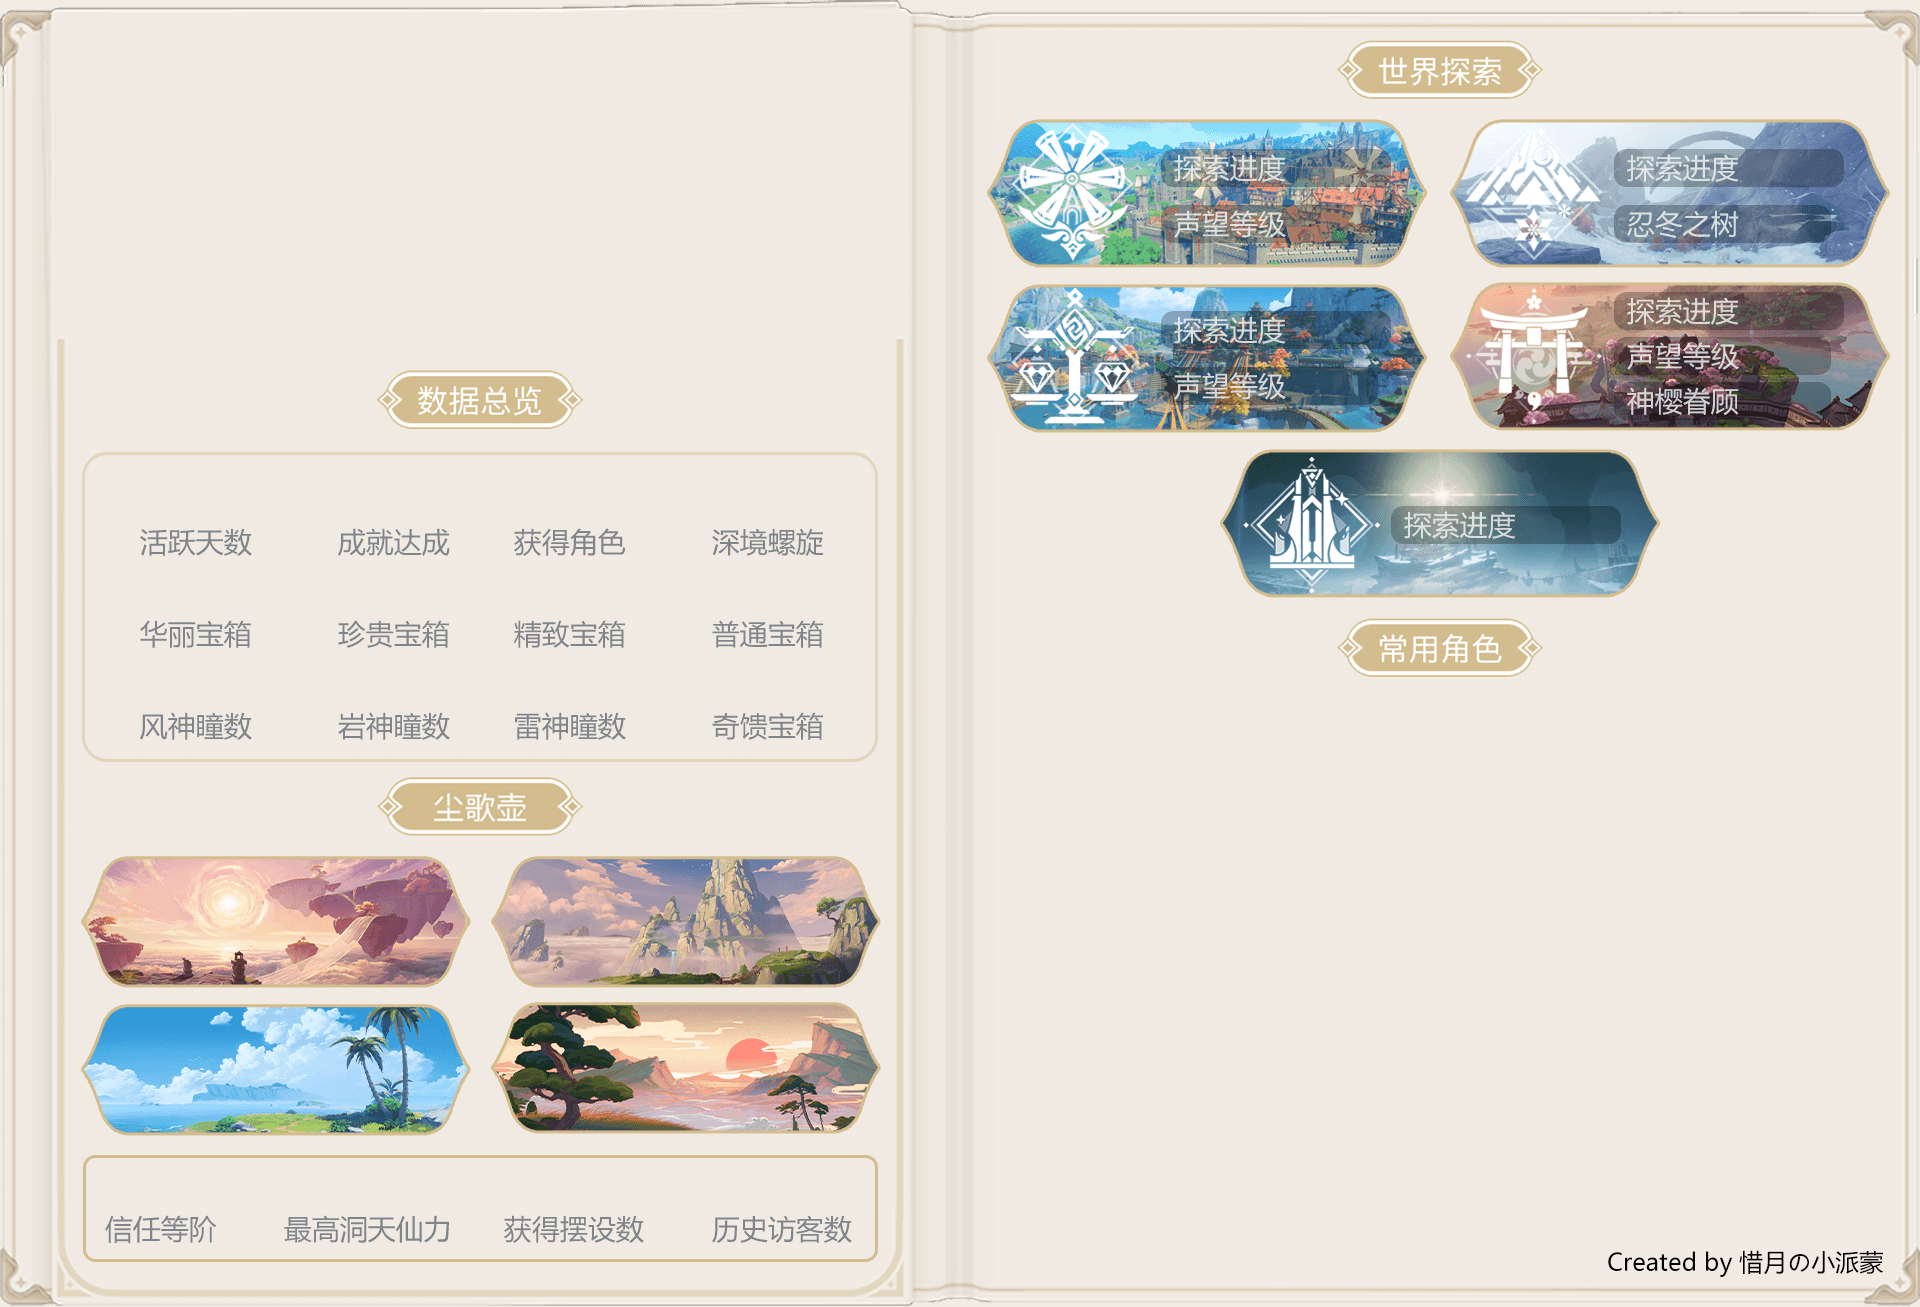
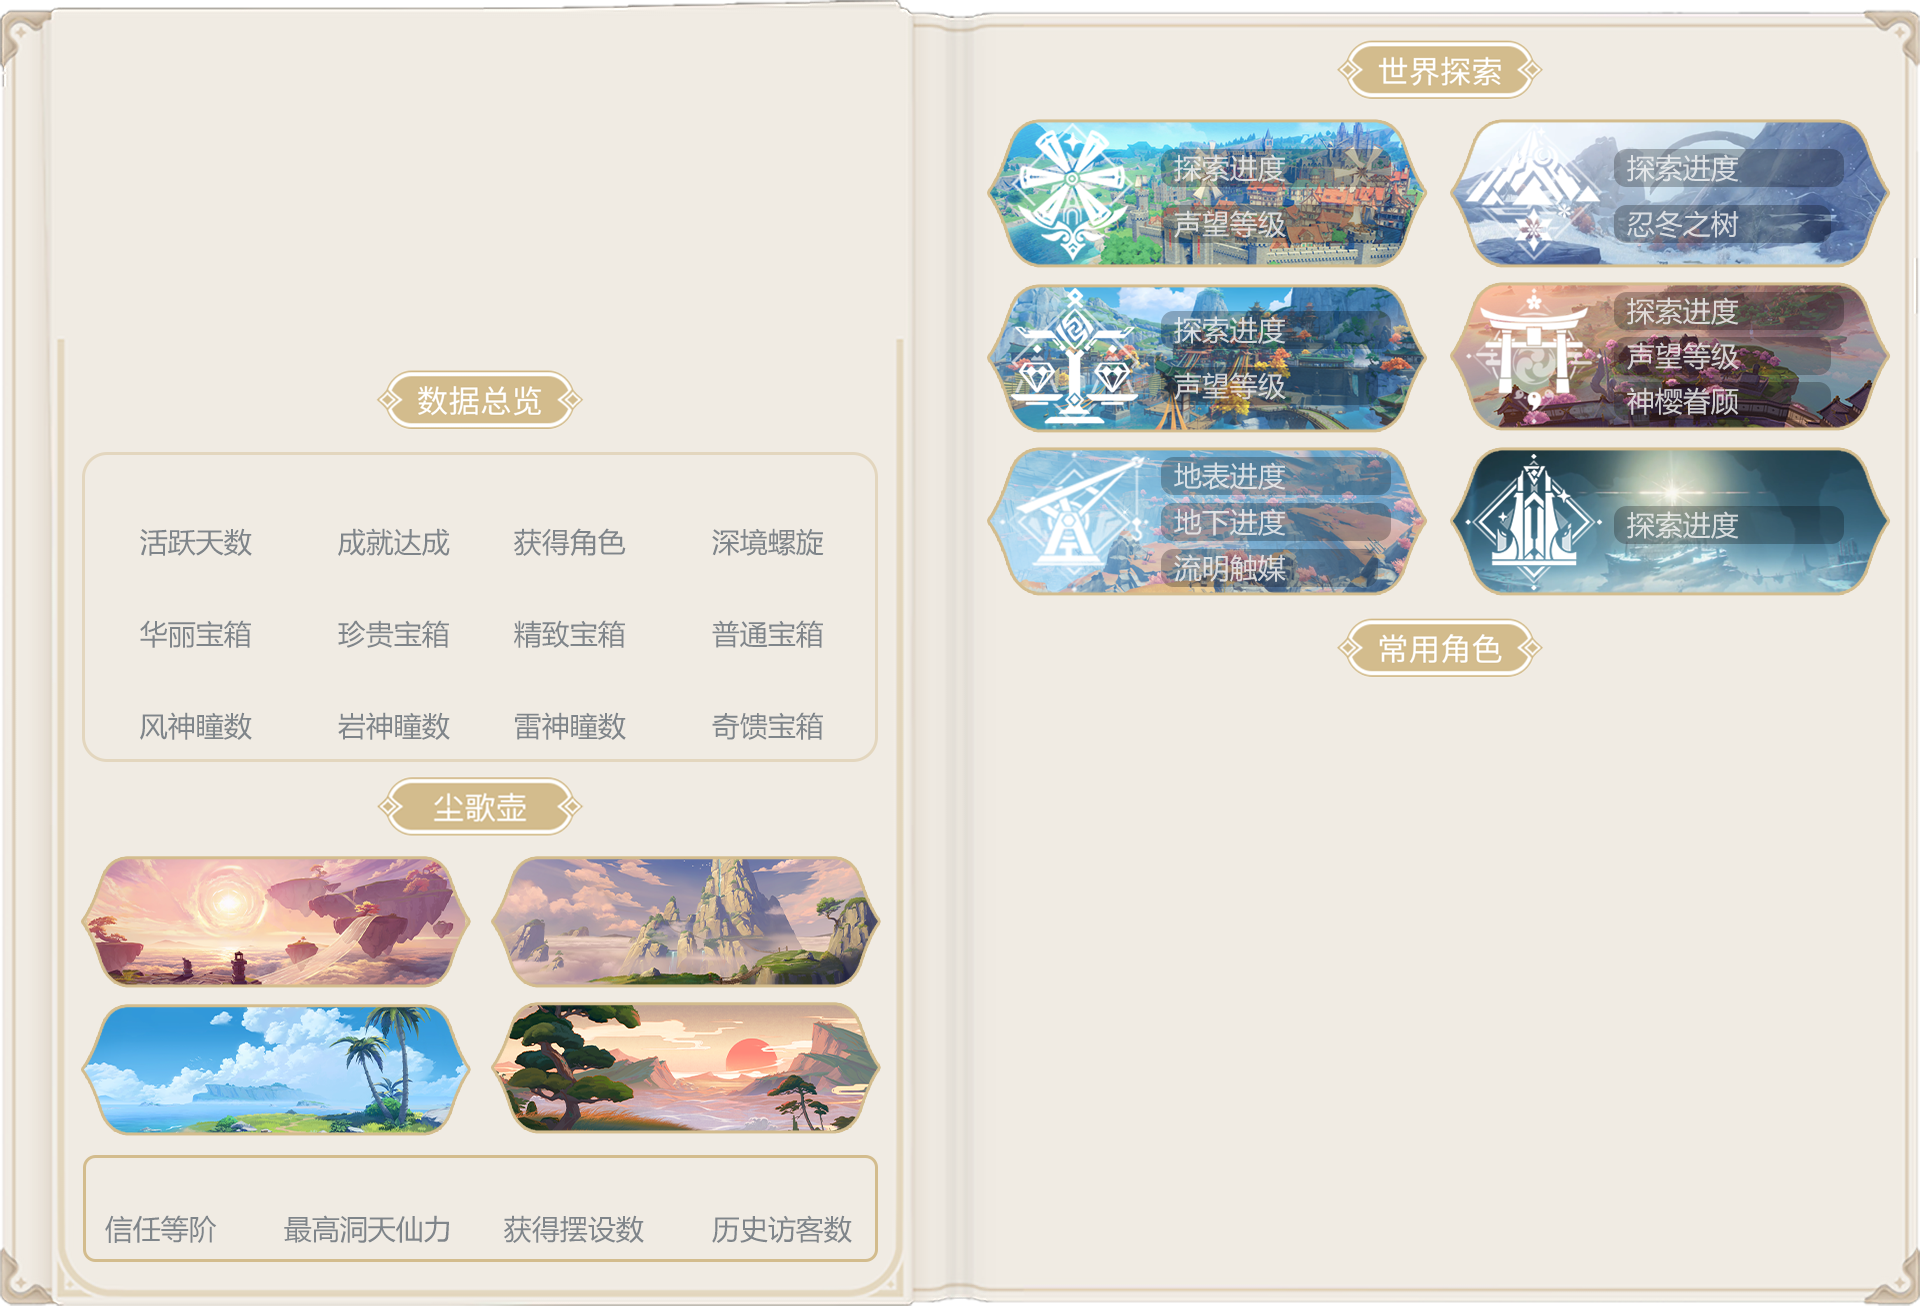
个人信息卡片新增层岩

diff --git a/hoshino/modules/Genshin_Paimon/player_card/get_img.py b/hoshino/modules/Genshin_Paimon/player_card/get_img.py
@@ -94,11 +94,21 @@ async def draw_homes_data(bg_draw,homes):
 
 async def draw_world_data(bg_draw,data):
     # 世界探索
-    Enkanomiya = data['world_explorations'][0]
-    Daoqi = data['world_explorations'][1]
-    Dragonspine = data['world_explorations'][2]
-    Liyue = data['world_explorations'][3]
-    Mengde = data['world_explorations'][4]
+    for d in data['world_explorations']:
+        if d['name'] == '渊下宫':
+            Enkanomiya = d
+        elif d['name'] == '稻妻':
+            Daoqi = d
+        elif d['name'] == '龙脊雪山':
+            Dragonspine = d
+        elif d['name'] == '璃月':
+            Liyue = d
+        elif d['name'] == '蒙德':
+            Mengde = d
+        elif d['name'] == '璃月层岩巨渊':
+            ChasmsMawH = d
+        elif d['name'] == '璃月层岩巨渊·地下矿区':
+            ChasmsMawL = d
     # 蒙德
     bg_draw.text((1295, 148), get_expl_per(Mengde['exploration_percentage']),
                  font=get_font(30), fill='white')
@@ -120,8 +130,18 @@ async def draw_world_data(bg_draw,data):
     bg_draw.text((1746, 336), 'Lv.' + str(Daoqi['level']), font=get_font(30), fill='white')
     bg_draw.text((1746, 380), 'Lv.' + str(Daoqi['offerings'][0]['level']), font=get_font(30), fill='white')
     # 渊下宫
-    bg_draw.text((1520, 505),
+    bg_draw.text((1747, 505),
                  get_expl_per(Enkanomiya['exploration_percentage']),
+                 font=get_font(30), fill='white')
+    # 层岩巨渊
+    bg_draw.text((1295, 455),
+                 get_expl_per(ChasmsMawH['exploration_percentage']),
+                 font=get_font(30), fill='white')
+    bg_draw.text((1295, 503),
+                 get_expl_per(ChasmsMawL['exploration_percentage']),
+                 font=get_font(30), fill='white')
+    bg_draw.text((1296, 547),
+                 'Lv.' + str(ChasmsMawL['offerings'][0]['level']),
                  font=get_font(30), fill='white')
 
 async def draw_player_card(data, chara_data, uid, nickname="旅行者"):
